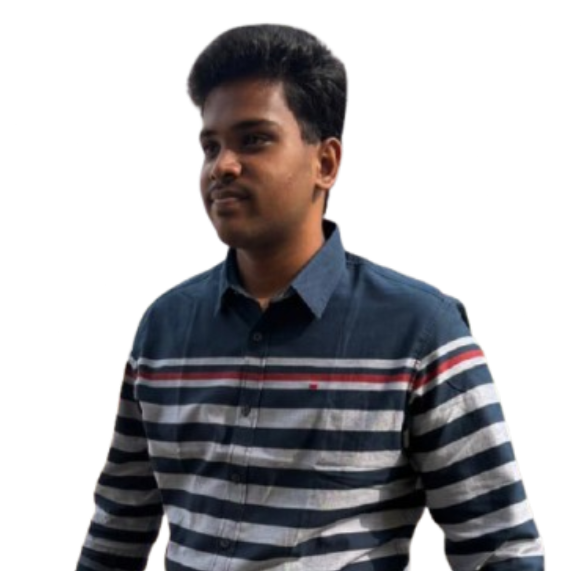
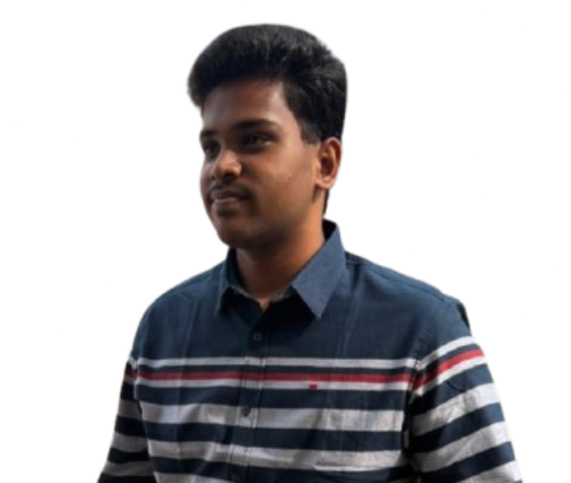
photos updated

diff --git a/src/pages/Team.jsx b/src/pages/Team.jsx
@@ -5,8 +5,8 @@ import Headers from "../components/Headers.jsx";
 const Team = () => {
   const staff = [
     { name: "Dr Nithya M", designation: "Head of the Department", image: "/team/nithya.png" },
-    { name: "Shiny A", designation: "Staff Coordinator", image: "/team/shiny.png" },
-    { name: "Shiny A", designation: "Staff Coordinator", image: "/team/shiny.png" },
+    { name: "Ms. Shiny A", designation: "Staff Coordinator", image: "/team/shiny.png" },
+    { name: "Mr. Yuvaraj", designation: "Staff Coordinator", image: "/team/yuvaraj.png" },
   ];
 
   const webdevs = [
